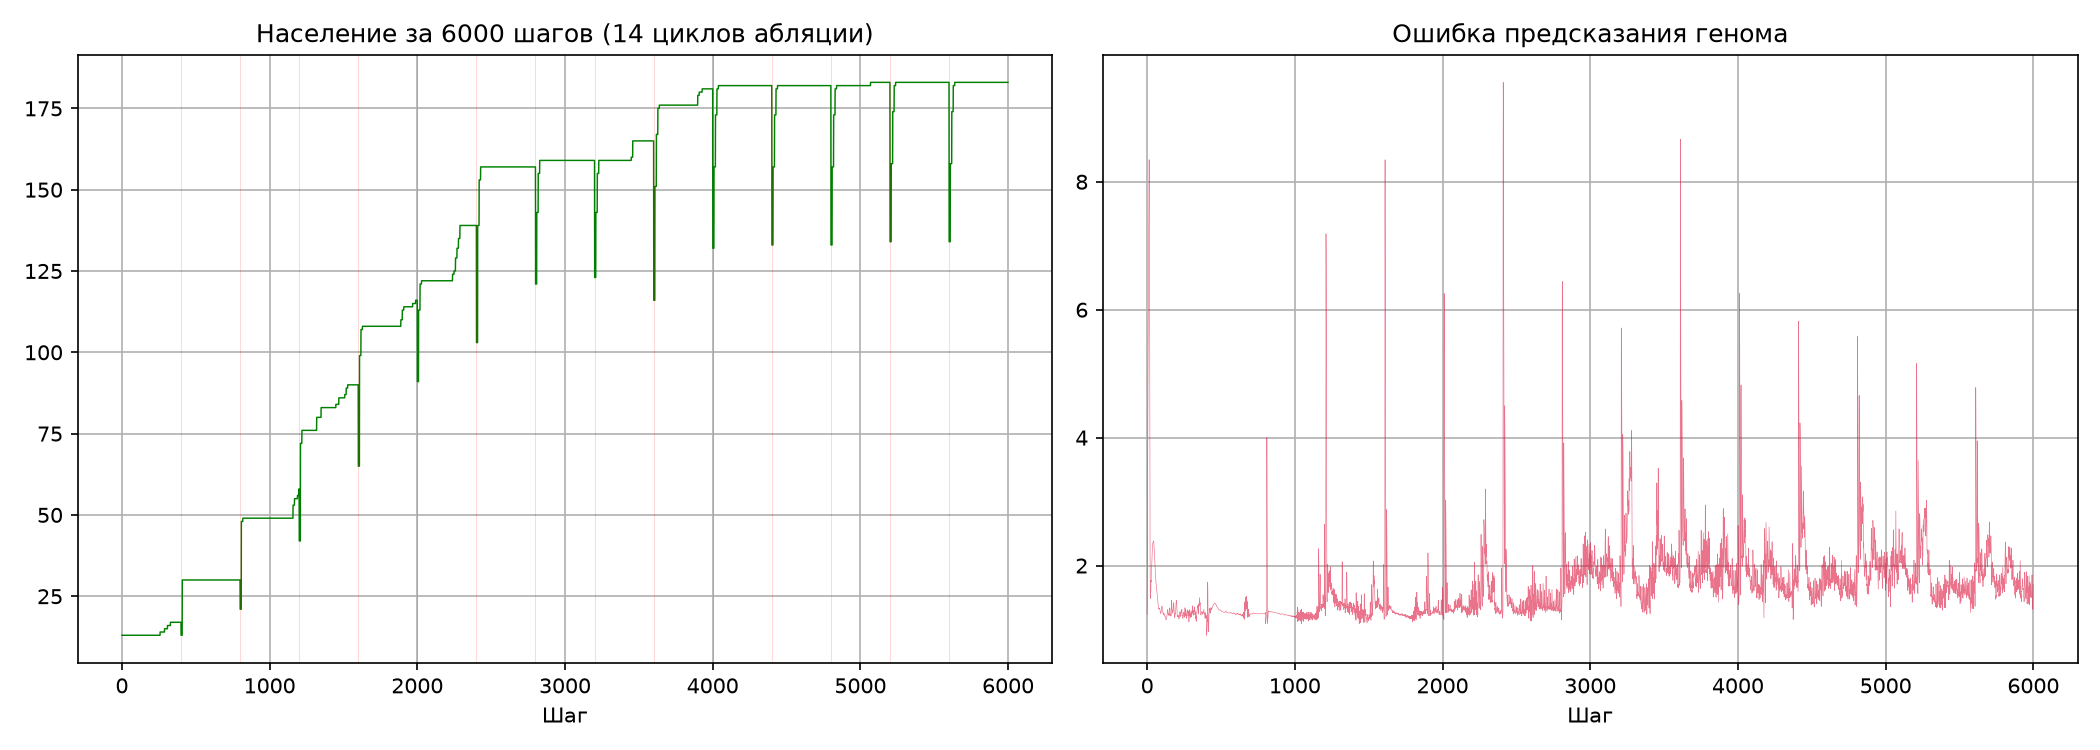
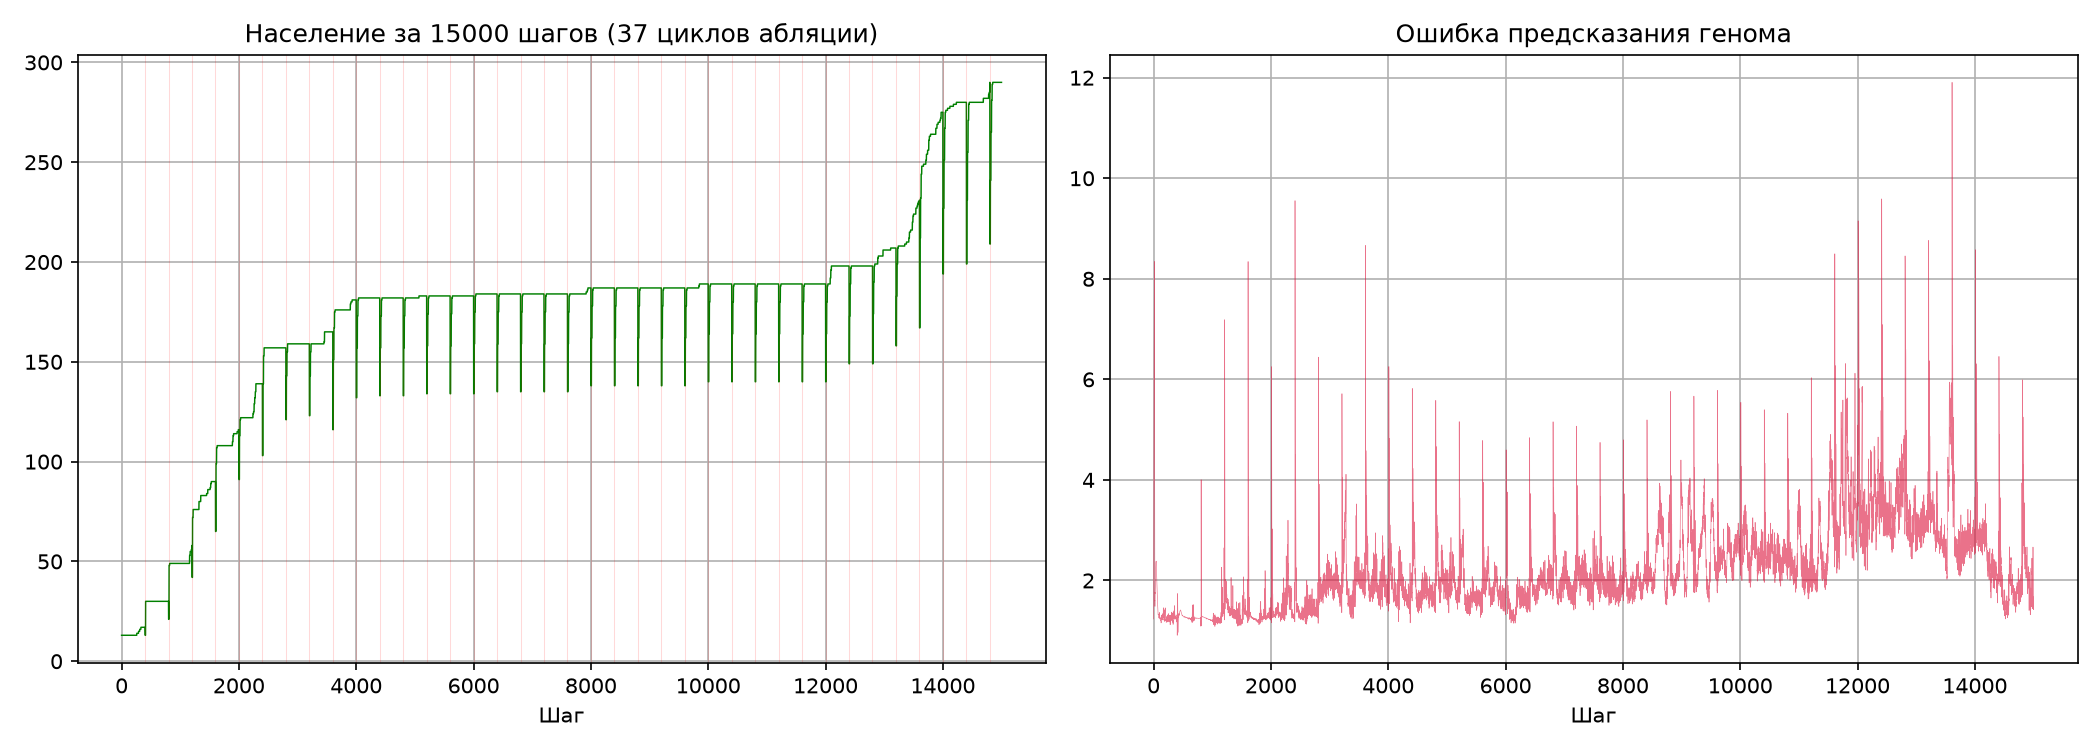
Extend M6 test to 15000 steps (rule 1) - corrects the premature "population plateaued" conclusion from the 6000-step run.
Reran experiments/unified_long_horizon_sanity.py with TOTAL_STEPS=15000
(2.5x the previously-tested horizon). What looked like a stable
carrying-capacity plateau at 6000 steps (population flat at 183 from
t=4000) turned out to be temporary - growth resumed later:

  t=6000:  pop=183  err=1.75
  t=9000:  pop=187  err=2.43
  t=12000: pop=189  err=3.68  <- notable spike, 2.4x baseline
  t=13000: pop=206  err=3.38
  t=14000: pop=275  err=2.79
  t=15000: pop=290  err=2.36  <- self-recovered

Population grew 189->290 (+53%) in the last 3000 steps with visible
acceleration, coinciding with a genome-error spike that got fairly close to
the 3x-divergence threshold (2.4x) before recovering on its own without any
parameter changes - not monotonic divergence, an oscillation/self-correction.
A similar "temporary instability that recovers on its own" pattern was seen
earlier this session in the MNIST digit-signal experiment (there on a static
population over hundreds of steps; here on a growing population over
thousands).

Recall at N=299 came back at 25.4% (vs 53.8% at N=119) - expected and
already predicted by the documented SDR capacity curve (falls with N), not
a new finding, so not re-verified against isolated variance the way N=119
was.

Updated conclusion: structural stability (no collapse/explosion/true
divergence) still holds at 15000 steps, but the population has NOT reached
true equilibrium in this window - growth is episodic/stepwise rather than
[…]

diff --git a/docs/VERIFICATION_LOG.md b/docs/VERIFICATION_LOG.md
@@ -1004,15 +1004,52 @@ organism - 150-3000 шагов). `experiments/unified_long_horizon_sanity.py` -
 обычного шума ёмкости SDR-памяти при N=119, НЕ свидетельство какой-то
 дополнительной деградации специфичной для долгого горизонта/абляций.
 
-**Честный вывод M6 (первый тест в сессии): структурно и по памяти система
-устойчива на 6000-шаговом горизонте** - население не коллапсирует и не
-взрывается, ошибка генома не расходится, recall памяти после долгой работы
-и множественных повреждений статистически неотличим от recall при той же
-ёмкости SDR без всякого долгого горизонта. Не "решено" - это ОДИН прогон
-на одном масштабе (SIZE=48, N=119 фактов, 14 абляций); не проверено на
-большем горизонте (десятки тысяч шагов), большем масштабе холста, или с
-несколькими независимыми seed целиком долгого прогона (только память
-перепроверена multi-seed, не сам организм).
+**Честный вывод по первым 6000 шагам: структурно и по памяти система
+устойчива** - население не коллапсирует и не взрывается, ошибка генома не
+расходится, recall памяти после долгой работы и множественных повреждений
+статистически неотличим от recall при той же ёмкости SDR без всякого
+долгого горизонта.
+
+**Продление до 15000 шагов (rule 1 - не делать вывод по одному горизонту)
+ИСПРАВИЛО преждевременный вывод "население вышло на плато":**
+
+| t | население | ошибка (200-avg) |
+|---|---|---|
+| 6000  | 183 | 1.75 |
+| 9000  | 187 | 2.43 |
+| 12000 | 189 | **3.68** |
+| 13000 | 206 | 3.38 |
+| 14000 | 275 | 2.79 |
+| 15000 | 290 | 2.36 |
+
+То, что на 6000 шагах выглядело как выход на carrying-capacity равновесие
+(183, стабильно с t=4000), оказалось ВРЕМЕННЫМ плато, не истинным
+равновесием - популяция ВОЗОБНОВИЛА рост позже (189->290 за последние
+3000 шагов, +53%), с ускорением ближе к концу. Одновременно ошибка генома
+дала ЗАМЕТНЫЙ ВСПЛЕСК до 3.68 к t=12000 (2.4x от начального 1.51,
+приближается к порогу расхождения 3x=4.5), но затем САМОСТОЯТЕЛЬНО
+восстановилась до 2.36 к t=15000 (без вмешательства, без изменения
+параметров) - НЕ монотонное расхождение, а колебание/самокоррекция,
+совпадающая по времени с возобновлением роста популяции. Похожий паттерн
+"временная нестабильность, которая сама восстанавливается" уже наблюдался
+в этой сессии на MNIST-эксперименте (там - в масштабе шагов на одной
+статичной популяции, здесь - на масштабе тысяч шагов с растущей).
+
+Recall при N=299 (299 фактов к концу 15000 шагов): 25.4% (76/299) - ниже,
+чем при N=119 (53.8%), но это ОЖИДАЕМО и согласуется с уже документированной
+кривой ёмкости SDR-памяти (падает с N: "100%→18% при N=50→4000") - не
+новое наблюдение, не проверялось отдельно на естественный разброс (в
+отличие от N=119 в прошлой записи), т.к. направление и масштаб изменения
+УЖЕ предсказаны существующей кривой.
+
+**Обновлённый честный вывод M6: структурная стабильность (нет коллапса/
+взрыва/истинного расхождения) держится и на 15000 шагах, но популяция
+НЕ достигла настоящего равновесия за это время** - рост скорее эпизодический/
+ступенчатый, чем монотонно затухающий к плато, и ошибка генома испытала
+заметный, но самовосстановившийся всплеск в середине горизонта. Один
+прогон, один масштаб (SIZE=48) - не проверено, продолжится ли этот паттерн
+на ещё большем горизонте (десятки тысяч шагов = M6 в полном смысле "недели")
+или на нескольких независимых seed целиком долгого прогона.
 
 ## Не проверялось нами вообще (только упомянуто в отчётах, приоритет ниже)
 

diff --git a/README.md b/README.md
@@ -44,7 +44,7 @@
 3. ✅ частично — первое реальное сенсорное подключение сделано (настоящий MNIST, `core/mnist_loader.py`). PC vs BP: разрыв устойчиво мал (+0.2..+2.6 п.п. в пользу BP, среднее +1.79±0.75 п.п. по 9 прогонам, N_train∈{1000,2000,4000}×3 seed, все 9 положительны) — заметно и стабильно меньше 6-10 п.п. на синтетике M(-1). Архитектура/датасет пока фиксированы (784->128->10, только MNIST) — не проверено на других (см. VERIFICATION_LOG)
 4. ~~Colab/GPU ни разу не использован~~ — ✅ сделано, см. ниже
 5. 🟡 частично — устойчивость колонок к шуму подтверждена (N=40, sigma 0.3-1.5); устойчивость генома/роста к шуму vs состязательному потоку протестирована (4 seed), результат НЕ подтверждён и НЕ опровергнут — делится ровно по seed, нужна более сильная атака/больший масштаб (см. VERIFICATION_LOG)
-6. 🟡 первый тест сделан — 6000 шагов (на порядок дольше любого прошлого теста), дрейфующий стимул, 14 циклов абляции, непрерывная запись памяти: население не коллапсирует и не взрывается (17→182, стабилизируется), ошибка генома не расходится (1.2x рост, не 3x+), recall памяти (53.8%, N=119) статистически неотличим от естественного разброса SDR-ёмкости без всякого долгого горизонта (проверено на 4 seed: 48.7-65.5%) — не деградация. Один прогон на одном масштабе, недели реальной работы (M6 в полном смысле) всё ещё не тестировались
+6. 🟡 первый тест сделан, продлён до 15000 шагов (rule 1 — не выводить из одного горизонта): нет коллапса/взрыва/истинного расхождения ошибки генома, НО то, что на 6000 шагах выглядело как плато населения (183, стабильно) оказалось ВРЕМЕННЫМ — рост возобновился позже (189→290 за последние 3000 шагов), ошибка генома дала заметный (2.4x) но самовосстановившийся всплеск в середине горизонта. Recall памяти при N=119 (53.8%) неотличим от естественного разброса SDR-ёмкости (проверено на 4 seed: 48.7-65.5%). Один прогон, недели реальной работы (M6 в полном смысле) всё ещё не тестировались
 7. Ни одного прямого сравнения с реальным LLM по осям из ROADMAP M5
 
 **Приоритет следующих шагов** (см. также `docs/ROADMAP.md`):

diff --git a/docs/ROADMAP.md b/docs/ROADMAP.md
@@ -15,7 +15,7 @@
 | M3 (колонки+голосование) | ✅ сделано, теперь ещё и слито в организм | Самый чистый результат сессии, +27.7 п.п. на K=4; мердж в `core/unified_organism.py` (`add_modality`/`read_fact_voted`) подтверждён на N=40, устойчивость к шумной модальности (sigma 0.3-1.5) - см. VERIFICATION_LOG |
 | M4 (JEPA-понимание) | ✅ сделано (текст), 🟡 мердж в организм не подтверждён | Текстовый тест: +33.3 п.п. над hardcoded-парсером, словарь ~30 слов. Мердж принципа в `unified_organism.py` (граница vs внутри клетка, held-out после абляции) дал смешанный результат при переборе grow_steps - см. VERIFICATION_LOG |
 | M5 (сравнение с LLM) | 🔴 не запущен | Ни одного прямого сравнения с реальным LLM пока нет |
-| M6 (долгий живой тест) | 🟡 первый тест сделан | 6000 шагов (на порядок дольше любого прошлого теста), дрейфующий стимул, 14 циклов абляции: население/ошибка генома стабильны, recall памяти неотличим от естественного разброса SDR-ёмкости - не деградация. Один прогон, недели реальной работы ещё не тестировались, см. VERIFICATION_LOG |
+| M6 (долгий живой тест) | 🟡 первый тест сделан, продлён до 15000 шагов | Нет коллапса/взрыва/истинного расхождения, но "плато" населения на 6000 шагах оказалось временным (рост возобновился, 189→290 к 15000), ошибка генома дала заметный самовосстановившийся всплеск в середине горизонта - структурно стабильно, но не в истинном равновесии. Один прогон, недели реальной работы ещё не тестировались, см. VERIFICATION_LOG |
 
 Детали, числа, найденные и исправленные баги — только в `VERIFICATION_LOG.md`,
 не дублируются здесь.
